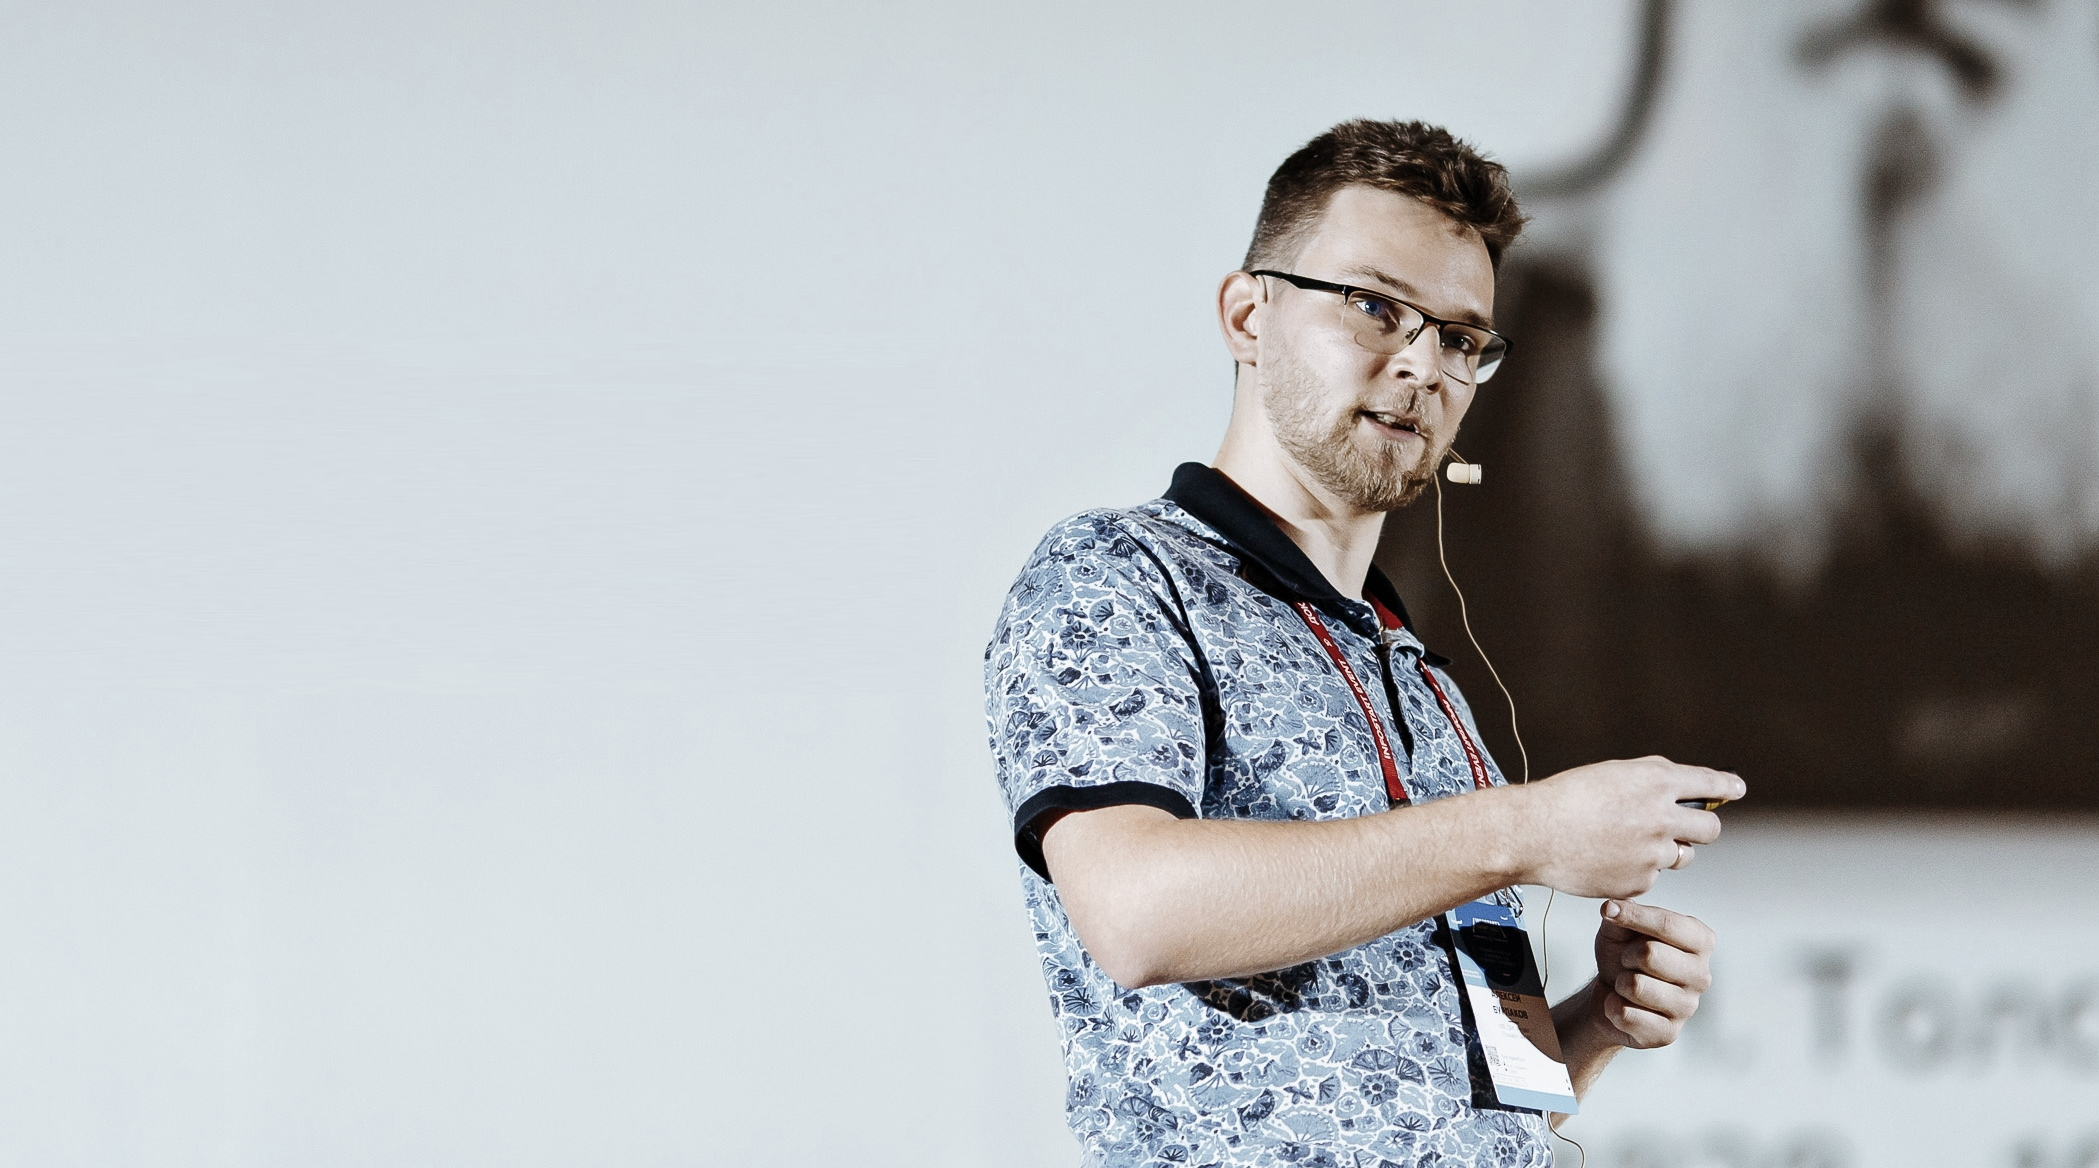
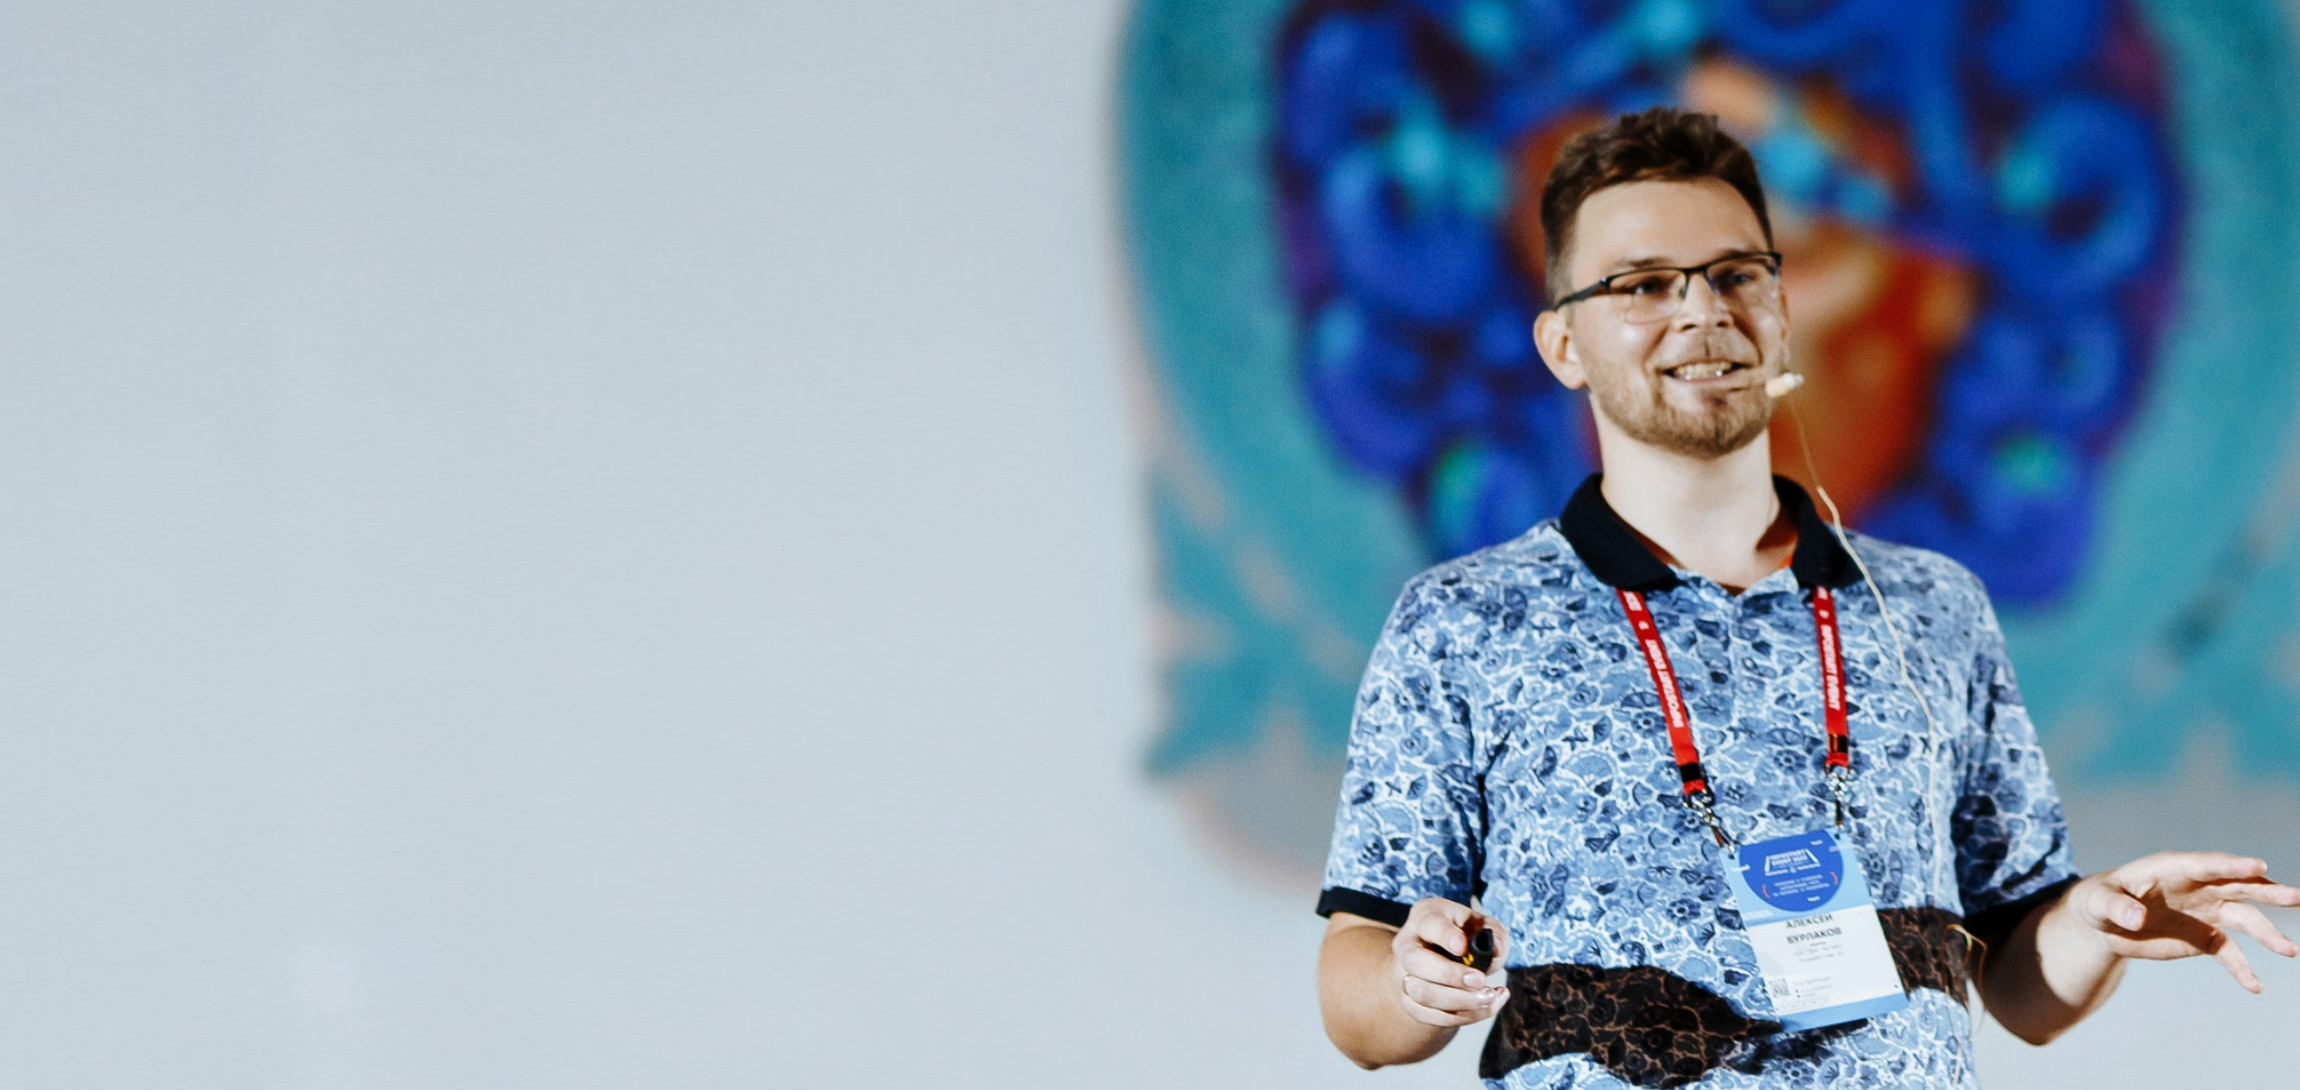
CSS beautifulation and background animation

diff --git a/building-module/static/css/style.css b/building-module/static/css/style.css
@@ -5,17 +5,47 @@ body {
   color: #fff;
   position: relative;
   background: transparent;
+    -webkit-animation: back 50s infinite; /* Safari 4+ */
+  -moz-animation:    back 33s infinite; /* Fx 5+ */
+  -o-animation:      back 33s infinite; /* Opera 12+ */
+  animation:         back 33s infinite; /* IE 10+, Fx 29+ */
+  background-image: url("../img/bg-1.jpg");
+  background-position: top right;
+  background-repeat: no-repeat;
+   background-size: cover;
 }
+
+/* The Keyframes*/
+@keyframes back {
+  6% {background-image: url("../img/bg-1.jpg");}
+  12% {background-image: url("../img/bg-1.jpg");}
+  18% {background-image: url("../img/bg-1.jpg");}
+  24% {background-image: url("../img/bg-2.jpg");}
+  30% {background-image: url("../img/bg-2.jpg");}
+  36% {background-image: url("../img/bg-2.jpg");}
+  42% {background-image: url("../img/bg-2.jpg");}
+  48% {background-image: url("../img/bg-3.jpg");}
+  54% {background-image: url("../img/bg-3.jpg");}
+  60% {background-image: url("../img/bg-3.jpg");}
+  66% {background-image: url("../img/bg-3.jpg");}
+  72% {background-image: url("../img/bg-4.jpg");}
+  78% {background-image: url("../img/bg-4.jpg");}
+  84% {background-image: url("../img/bg-4.jpg");}
+  90% {background-image: url("../img/bg-4.jpg");}
+/* Animation Does Not End At 100% Because It Makes The Images Transition In/Out Better For Some Reason*/
+}
+
 body::before {
   content: "";
   position: fixed;
-  background: #040404 url("../img/bg-4.jpg") top right no-repeat;
+
   background-size: cover;
   left: 0;
   right: 0;
   top: 0;
   height: 100vh;
   z-index: -1;
+
 }
 @media (min-width: 1024px) {
   body::before {
@@ -43,7 +73,7 @@ h1, h2, h3, h4, h5, h6 {
 #header {
   transition: ease-in-out 0.3s;
   position: relative;
-  height: 130vh;
+  height: 100vh;
   display: flex;
   align-items: center;
   z-index: 997;
@@ -55,34 +85,41 @@ h1, h2, h3, h4, h5, h6 {
 }
 
 #header .container {
-    background: rgba(26, 115, 165, 0.7);
-    width: 40%;
-    padding: 30px;
-    padding-left: 10%;
-    padding-right: 0%;
+    width: auto;
+    padding: 20px;
+    padding-left: 7%;
+    padding-right: 7%;
     margin-left: 0px;
 }
 
 #header h1 {
-  font-size: 48px;
+  font-size: 40px;
   margin: 0;
   padding: 0;
   line-height: 1;
-  font-weight: 700;
+  font-weight: 100;
   font-family: "Poppins", sans-serif;
 }
+
 #header h1 a, #header h1 a:hover {
-  color: #fff;
+  color: rgb(58 57 61);
   line-height: 1;
   display: inline-block;
 }
+
+#header .header-top h1 a {
+  color: rgb(58 57 255);
+  line-height: 1;
+  display: inline-block;
+}
+
 #header h2 {
   font-size: 24px;
-  margin-top: 20px;
-  color: rgba(255, 255, 255, 0.8);
+  margin-top: 10px;
+  color: rgb(58, 57, 61, 0.8);
 }
 #header h2 span {
-  color: #fff;
+  color: rgb(58 57 61);
   border-bottom: 2px solid #1e90ff;
   padding-bottom: 6px;
 }
@@ -99,8 +136,8 @@ h1, h2, h3, h4, h5, h6 {
   display: flex;
   justify-content: center;
   align-items: center;
-  background: rgba(255, 255, 255, 0.1);
-  color: #fff;
+  background: rgba(0, 0, 0, 0.1);
+  color: rgb(58 57 61);
   line-height: 1;
   margin-right: 8px;
   border-radius: 50%;
@@ -109,7 +146,6 @@ h1, h2, h3, h4, h5, h6 {
 }
 #header .social-links a:hover {
   background: #1e90ff;
-
 }
 
 
@@ -197,7 +233,7 @@ h1, h2, h3, h4, h5, h6 {
   font-family: "Poppins", sans-serif;
   font-size: 16px;
   font-weight: 400;
-  color: rgba(255, 255, 255, 0.7);
+  color: rgba(58, 57, 61, 0.7);
   white-space: nowrap;
   transition: 0.3s;
 }
@@ -223,7 +259,7 @@ h1, h2, h3, h4, h5, h6 {
   width: 25px;
 }
 .navbar a:hover, .navbar .active, .navbar .active:focus, .navbar li:hover > a {
-  color: #fff;
+  color: rgba(58, 57, 61, 0.7);
 }
 
 /**

diff --git a/building-module/templates/header.html b/building-module/templates/header.html
@@ -3,7 +3,7 @@
   <header id="header">
     <div class="container">
       <h1><a href="{{ site_url }}">{{ name }}</a></h1>
-      <h2>{{ tag1 }} <span>{{ tag2 }}</span></h2>
+      <h2><span>Python</span>-разработчик</h2>
 
       <nav id="navbar" class="navbar">
         <ul>
@@ -16,9 +16,27 @@
         <i class="bi bi-list mobile-nav-toggle"></i>
       </nav><!-- Навигация -->
 
+      <div class="recent-posts">
+      {% for post in posts %}
+<!--        {{ post.title }}-->
+<!--        {{ post.date }}-->
+<!--        	<small>{{ post.date }}</small>-->
+<!--        	<p>-->
+<!--          	<h3>-->
+<!--            	{{ post.title }}-->
+<!--          	</h3>-->
+<!--        	<p>-->
+<!--          	<i>{{ post.description }}</i>-->
+<!--        	</p>-->
+<!--         	<p>{{ post.html[:100]|safe }}</p>-->
+<!--            	<a href="{{ url_for('post', name=post.path.replace('posts/', '')) }}"><span>Читать</span></a>-->
+<!--        	</p>-->
+        	{% endfor %}
+        </div>
+
       <div class="social-links">
         <a href="{{ telegram }}" class="telegram"><i class="fa fa-telegram"></i></a>
-        <a href="{{ facebook }}" class="facebook"><i class="fa fa-facebook"></i></a>
+        <a href="{{ github }}" class="github"><i class="fa fa-github"></i></a>
         <a href="{{ vk }}" class="vk"><i class="fa fa-vk"></i></a>
         <a href="{{ email }}" class="email"><i class="fa fa-envelope"></i></a>
       </div>

diff --git a/building-module/templates/base.html b/building-module/templates/base.html
@@ -14,7 +14,7 @@
   <link href="{{ url_for('static', filename='assets/glightbox/css/glightbox.min.css') }}" rel="stylesheet">
   <link href="{{ url_for('static', filename='assets/remixicon/remixicon.css') }}" rel="stylesheet">
   <link href="{{ url_for('static', filename='assets/swiper/swiper-bundle.min.css') }}" rel="stylesheet">
-  <script src="https://kit.fontawesome.com/69e2443572.js" crossorigin="anonymous"></script>
+  <script src="https://kit.fontawesome.com/fc0397d265.js" crossorigin="anonymous"></script>
   <link href="{{ url_for('static', filename='css/style.css') }}" rel="stylesheet">
   <link rel="stylesheet" href="{{ url_for('pygments_css') }}">
 </head>

diff --git a/building-module/templates/blog.html b/building-module/templates/blog.html
@@ -9,9 +9,9 @@
       <div class="row">
         <div class="col-lg-12 d-flex justify-content-center">
           <ul id="portfolio-flters">
-            <li data-filter="*" class="filter-active">Теги</li>
+            <li data-filter="*" class="filter-active"># Все теги</li>
             {% for tag in tags %}
-            <li data-filter=".{{ tag }}">{{ tag }}</li>
+            <li data-filter=".{{ tag }}"># {{ tag }}</li>
             {% endfor %}
           </ul>
         </div>

diff --git a/building-module/static/js/main.js b/building-module/static/js/main.js
@@ -239,4 +239,6 @@
     }
   });
 
+
+
 })()
